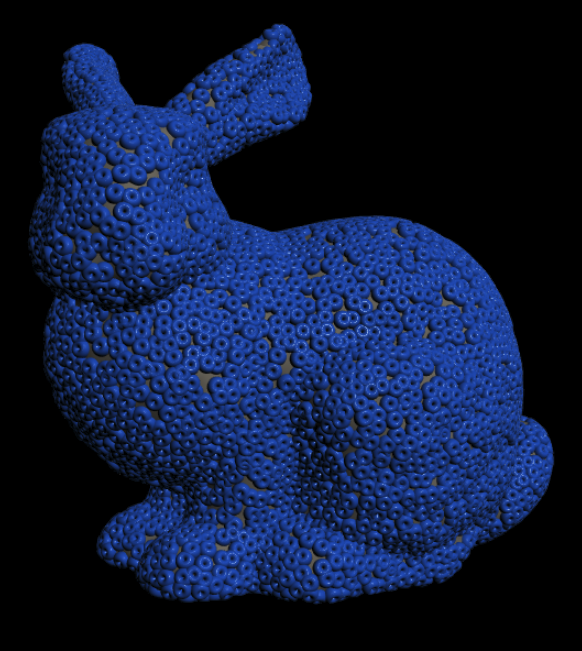
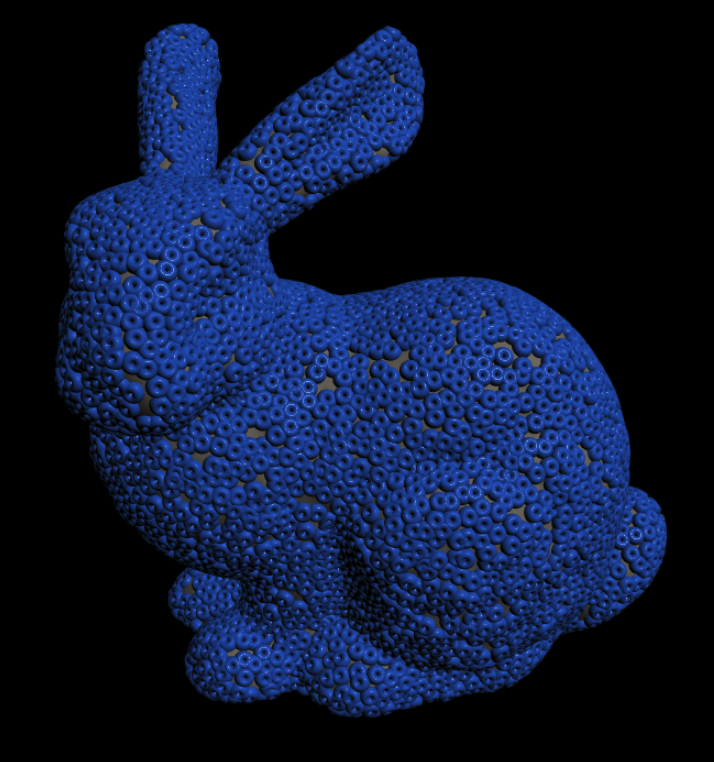
fixed a PBR term and updated screenshots

diff --git a/examples/shared/pbr.js b/examples/shared/pbr.js
@@ -102,7 +102,7 @@ export default class PBRShader extends Shader {
         float NdotV = dot(normal, viewDir);
         float VdotH = dot(viewDir, halfDir);
         float NdotH = dot(normal, halfDir);
-        vec2 brdf = texture(uTexture0, vec2(NdotV, uRoughness)).rg;
+        vec2 brdf = texture(uTexture0, vec2(NdotV, 1.0 - uRoughness)).rg;
         brdf = pow(brdf, vec2(2.2));
 
         // heavily adapted from https://github.com/KhronosGroup/glTF-WebGL-PBR
@@ -120,8 +120,9 @@ export default class PBRShader extends Shader {
 
         vec3 diffuseColor = uBaseColor;
         vec3 specularColor = mix(uSpecularColor, uBaseColor, uMetalness);
+        specularColor = specularColor * brdf.x + brdf.y;
 
-        float spec = min(1.0, (F * G * D / (4.0 * NdotL * NdotV)) * brdf.x + brdf.y);
+        float spec = min(1.0, (F * G * D / (4.0 * NdotL * NdotV)));
         float diff = (1.0 - F);
 
         vec3 color = NdotL * uPointColor * uPointIntensity * (diffuseColor * diff + specularColor * spec);

diff --git a/examples/instanced/pbr-instanced.js b/examples/instanced/pbr-instanced.js
@@ -132,8 +132,9 @@ export default class PBRInstancedShader extends Shader {
 
         vec3 diffuseColor = uBaseColor;
         vec3 specularColor = mix(uSpecularColor, uBaseColor, uMetalness);
+        specularColor = specularColor * brdf.x + brdf.y;
 
-        float spec = min(1.0, (F * G * D / (4.0 * NdotL * NdotV)) * brdf.x + brdf.y);
+        float spec = min(1.0, (F * G * D / (4.0 * NdotL * NdotV)));
         float diff = (1.0 - F);
 
         vec3 color = NdotL * uPointColor * uPointIntensity * (diffuseColor * diff + specularColor * spec);

diff --git a/examples/normals/app.js b/examples/normals/app.js
@@ -35,8 +35,8 @@ async function init() {
   );
   vec3.set(camera.translation, 0, 0, 0);
 
-  point = new PointLight('point', 1, vec3.fromValues(1.0, 1.0, 1.0));
-  vec3.set(point.translation,8, 0, 2);
+  point = new PointLight('point', 3, vec3.fromValues(1.0, 1.0, 1.0));
+  vec3.set(point.translation,6, 0, 5);
 
   shapePivot = new Model('pivot', null, scene, null, null);
   vec3.set(shapePivot.translation, 0, 0, -3);
